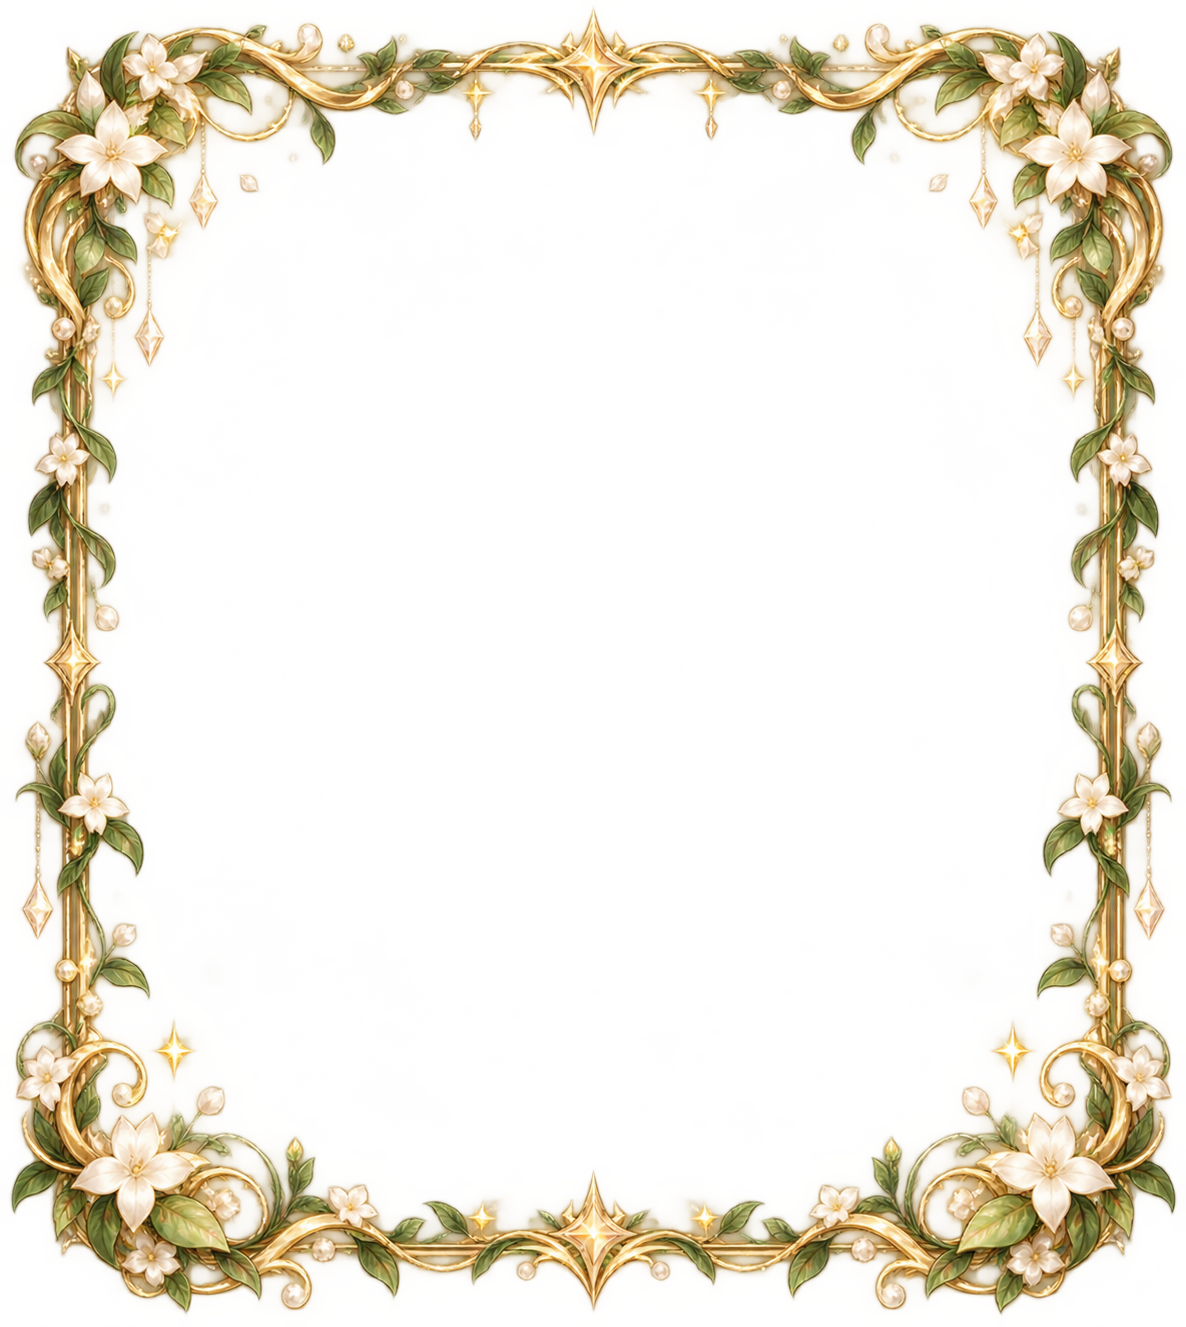
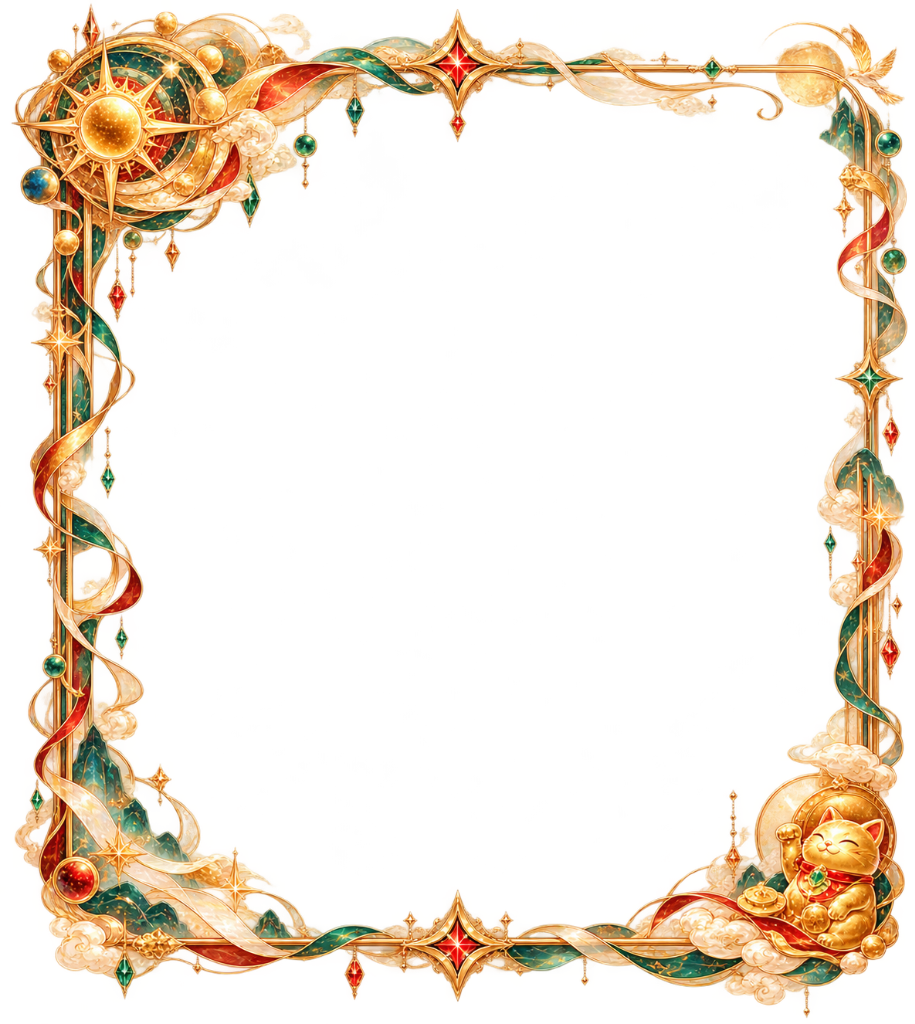
feat(namecard): add gold frame, free basic frames, frame thumbnails, and calibrate stars frame

diff --git a/styles.css b/styles.css
@@ -11388,52 +11388,190 @@ dialog.modal.namecard-modal {
 }
 
 .namecard-frame-layer[data-frame] { opacity: 1; }
-.namecard-frame-layer[data-frame="default"] { opacity: 0; }
+.namecard-frame-layer[data-frame="default"],
+.namecard-frame-layer[data-frame="none"],
+.namecard-frame-layer[data-frame=""] {
+  opacity: 0;
+  display: none;
+}
 
-/* Khung Khu Rừng Tri Thức (Leaves):
-   Kích thước ảnh gốc 915x1024, ranh giới thanh vàng cốt lõi: 823px x 902px.
-   Khi đưa vào stage 680x760, scale khung = (680/823)*915 = 756px, cao = (760/902)*1024 = 863px.
-   Ranh giới 40-60 chạm chuẩn 100% mép viền ngoài namecard. */
+/* 5 Khung nghệ thuật cao cấp */
 .namecard-frame-layer[data-frame="leaves"] {
-  background-image: url("frames/v2/leaves.png?v=4");
+  background-image: url("frames/v2/leaves.png?v=5");
   inset: -42px -38px -61px -38px;
   background-size: 100% 100%;
 }
 .namecard-frame-layer[data-frame="sakura"] {
-  background-image: url("frames/v2/sakura.png?v=4");
+  background-image: url("frames/v2/sakura.png?v=5");
   inset: -46px -42px -64px -42px;
   background-size: 100% 100%;
 }
 .namecard-frame-layer[data-frame="ice"] {
-  background-image: url("frames/v2/ice.png?v=4");
+  background-image: url("frames/v2/ice.png?v=5");
   inset: -54px -52px -58px -66px;
   background-size: 100% 100%;
 }
 .namecard-frame-layer[data-frame="stars"] {
-  background-image: url("frames/v2/stars.png?v=4");
-  inset: -66px -62px -70px -66px;
+  background-image: url("frames/v2/stars.png?v=5");
+  inset: -54px -50px -58px -66px;
   background-size: 100% 100%;
 }
 .namecard-frame-layer[data-frame="gold"] {
-  background-image: url("frames/v2/gold.png?v=4");
-  inset: -45px -42px -65px -42px;
+  background-image: url("frames/v2/gold.png?v=5");
+  inset: -48px -30px -52px -44px;
   background-size: 100% 100%;
 }
 
+/* Khung cơ bản miễn phí (độ dày 4px bo góc chuẩn theo namecard) */
+.namecard-frame-layer[data-frame^="basic_"] {
+  inset: 0px;
+  border-radius: 24px;
+  background: none;
+  pointer-events: none;
+  z-index: 10;
+}
+.namecard-frame-layer[data-frame="basic_ocean"] {
+  border: 4px solid transparent;
+  background: linear-gradient(135deg, #1e3a8a 0%, #3b82f6 50%, #93c5fd 100%) border-box;
+  -webkit-mask: linear-gradient(#fff 0 0) padding-box, linear-gradient(#fff 0 0);
+  -webkit-mask-composite: xor;
+  mask-composite: exclude;
+  box-shadow: 0 0 10px rgba(59, 130, 246, 0.25);
+}
+.namecard-frame-layer[data-frame="basic_emerald"] {
+  border: 4px solid transparent;
+  background: linear-gradient(135deg, #064e3b 0%, #059669 50%, #6ee7b7 100%) border-box;
+  -webkit-mask: linear-gradient(#fff 0 0) padding-box, linear-gradient(#fff 0 0);
+  -webkit-mask-composite: xor;
+  mask-composite: exclude;
+  box-shadow: 0 0 10px rgba(16, 185, 129, 0.25);
+}
+.namecard-frame-layer[data-frame="basic_sunset"] {
+  border: 4px solid transparent;
+  background: linear-gradient(135deg, #4c0519 0%, #db2777 50%, #fcd34d 100%) border-box;
+  -webkit-mask: linear-gradient(#fff 0 0) padding-box, linear-gradient(#fff 0 0);
+  -webkit-mask-composite: xor;
+  mask-composite: exclude;
+  box-shadow: 0 0 10px rgba(219, 39, 119, 0.25);
+}
+.namecard-frame-layer[data-frame="basic_aurora"] {
+  border: 4px solid transparent;
+  background: linear-gradient(135deg, #0f172a 0%, #1e1b4b 50%, #4338ca 100%) border-box;
+  -webkit-mask: linear-gradient(#fff 0 0) padding-box, linear-gradient(#fff 0 0);
+  -webkit-mask-composite: xor;
+  mask-composite: exclude;
+  box-shadow: 0 0 10px rgba(67, 56, 202, 0.25);
+}
+.namecard-frame-layer[data-frame="basic_royal"] {
+  border: 4px solid transparent;
+  background: linear-gradient(135deg, #3b0764 0%, #7c3aed 50%, #c084fc 100%) border-box;
+  -webkit-mask: linear-gradient(#fff 0 0) padding-box, linear-gradient(#fff 0 0);
+  -webkit-mask-composite: xor;
+  mask-composite: exclude;
+  box-shadow: 0 0 10px rgba(124, 58, 237, 0.25);
+}
+.namecard-frame-layer[data-frame="basic_midnight"] {
+  border: 4px solid #0f172a;
+}
+.namecard-frame-layer[data-frame="basic_slate"] {
+  border: 4px solid #334155;
+}
+.namecard-frame-layer[data-frame="basic_deep_green"] {
+  border: 4px solid #064e3b;
+}
+.namecard-frame-layer[data-frame="basic_pure_black"] {
+  border: 4px solid #18181b;
+}
 
+
+/* Thumbnails xem trước trong bộ chọn frame */
 .frame-choice-preview {
   width: 100%;
-  height: 44px;
-  margin-bottom: 5px;
-  border-radius: 7px;
-  background: linear-gradient(135deg, #bdd6ff 0%, #fff 48%, #d9e8ff 100%) center / 100% 100% no-repeat;
+  height: 60px;
+  margin-bottom: 6px;
+  border-radius: 8px;
+  background-position: center;
+  background-repeat: no-repeat;
+  background-size: contain;
+  background-color: transparent;
+  position: relative;
+  display: flex;
+  align-items: center;
+  justify-content: center;
 }
-.frame-choice-preview[data-frame-preview="default"] { background-image: url("frames/v2/default.png?v=4"); }
-.frame-choice-preview[data-frame-preview="leaves"] { background-image: url("frames/v2/leaves.png?v=4"); }
-.frame-choice-preview[data-frame-preview="stars"] { background-image: url("frames/v2/stars.png?v=4"); }
-.frame-choice-preview[data-frame-preview="sakura"] { background-image: url("frames/v2/sakura.png?v=4"); }
-.frame-choice-preview[data-frame-preview="ice"] { background-image: url("frames/v2/ice.png?v=4"); }
-.frame-choice-preview[data-frame-preview="gold"] { background-image: url("frames/v2/gold.png?v=4"); }
+.frame-choice-preview[data-frame-preview="none"],
+.frame-choice-preview[data-frame-preview="default"] {
+  border: 1.5px dashed #cbd5e1;
+  background: #f8fafc;
+}
+.frame-choice-preview[data-frame-preview="none"]::after,
+.frame-choice-preview[data-frame-preview="default"]::after {
+  content: "✕ Không khung";
+  font-size: 10px;
+  font-weight: 600;
+  color: #94a3b8;
+}
+
+/* 5 ảnh thumb cao cấp chính thức */
+.frame-choice-preview[data-frame-preview="leaves"] { background-image: url("frames/v2/thumbs/leaves.png?v=5"); }
+.frame-choice-preview[data-frame-preview="stars"] { background-image: url("frames/v2/thumbs/stars.png?v=5"); }
+.frame-choice-preview[data-frame-preview="gold"] { background-image: url("frames/v2/thumbs/gold.png?v=5"); }
+.frame-choice-preview[data-frame-preview="sakura"] { background-image: url("frames/v2/thumbs/sakura.png?v=5"); }
+.frame-choice-preview[data-frame-preview="ice"] { background-image: url("frames/v2/thumbs/ice.png?v=5"); }
+
+/* Khung cơ bản miễn phí swatch */
+.frame-choice-preview[data-frame-preview="basic_ocean"] {
+  border: 3.5px solid transparent;
+  background: linear-gradient(135deg, #1e3a8a 0%, #3b82f6 50%, #93c5fd 100%) border-box;
+  -webkit-mask: linear-gradient(#fff 0 0) padding-box, linear-gradient(#fff 0 0);
+  -webkit-mask-composite: xor;
+  mask-composite: exclude;
+}
+.frame-choice-preview[data-frame-preview="basic_emerald"] {
+  border: 3.5px solid transparent;
+  background: linear-gradient(135deg, #064e3b 0%, #059669 50%, #6ee7b7 100%) border-box;
+  -webkit-mask: linear-gradient(#fff 0 0) padding-box, linear-gradient(#fff 0 0);
+  -webkit-mask-composite: xor;
+  mask-composite: exclude;
+}
+.frame-choice-preview[data-frame-preview="basic_sunset"] {
+  border: 3.5px solid transparent;
+  background: linear-gradient(135deg, #4c0519 0%, #db2777 50%, #fcd34d 100%) border-box;
+  -webkit-mask: linear-gradient(#fff 0 0) padding-box, linear-gradient(#fff 0 0);
+  -webkit-mask-composite: xor;
+  mask-composite: exclude;
+}
+.frame-choice-preview[data-frame-preview="basic_aurora"] {
+  border: 3.5px solid transparent;
+  background: linear-gradient(135deg, #0f172a 0%, #1e1b4b 50%, #4338ca 100%) border-box;
+  -webkit-mask: linear-gradient(#fff 0 0) padding-box, linear-gradient(#fff 0 0);
+  -webkit-mask-composite: xor;
+  mask-composite: exclude;
+}
+.frame-choice-preview[data-frame-preview="basic_royal"] {
+  border: 3.5px solid transparent;
+  background: linear-gradient(135deg, #3b0764 0%, #7c3aed 50%, #c084fc 100%) border-box;
+  -webkit-mask: linear-gradient(#fff 0 0) padding-box, linear-gradient(#fff 0 0);
+  -webkit-mask-composite: xor;
+  mask-composite: exclude;
+}
+.frame-choice-preview[data-frame-preview="basic_midnight"] {
+  border: 3.5px solid #0f172a;
+  background: #f8fafc;
+}
+.frame-choice-preview[data-frame-preview="basic_slate"] {
+  border: 3.5px solid #334155;
+  background: #f8fafc;
+}
+.frame-choice-preview[data-frame-preview="basic_deep_green"] {
+  border: 3.5px solid #064e3b;
+  background: #f8fafc;
+}
+.frame-choice-preview[data-frame-preview="basic_pure_black"] {
+  border: 3.5px solid #18181b;
+  background: #f8fafc;
+}
+
 .choice-unlock-badge {
   margin-top: 3px;
   color: #39714a;
@@ -11441,13 +11579,7 @@ dialog.modal.namecard-modal {
   font-weight: 700;
 }
 
-/* Earlier experimental rules used a CSS border as a stand-in frame.  Keep the
-   content canvas completely unchanged; the asset layer above is now the frame. */
-.namecard-card[data-frame="leaves"],
-.namecard-card[data-frame="stars"],
-.namecard-card[data-frame="sakura"],
-.namecard-card[data-frame="ice"],
-.namecard-card[data-frame="gold"] {
+.namecard-card[data-frame] {
   border: 0;
   box-shadow: none;
 }
@@ -12083,11 +12215,7 @@ dialog.modal.full-cover-viewer-modal {
 
 /* Must follow the retired prototype frame rules above: frames never consume
    content space or alter card geometry. */
-.namecard-card[data-frame="leaves"],
-.namecard-card[data-frame="stars"],
-.namecard-card[data-frame="sakura"],
-.namecard-card[data-frame="ice"],
-.namecard-card[data-frame="gold"] {
+.namecard-card[data-frame] {
   border: 0;
   box-shadow: none;
 }

diff --git a/app.js b/app.js
@@ -3726,10 +3726,24 @@ const AVATAR_OPTIONS = [
 ];
 
 const FRAME_OPTIONS = [
-  { id: "default", name: "Mặc định", minDays: 0 },
-  { id: "leaves", name: "Khu rừng tri thức", minDays: 3 },
-  { id: "sakura", name: "Mùa anh đào nở", minDays: 7 },
-  { id: "ice", name: "Vương quốc mùa đông", minDays: 14 },
+  // Mặc định: không dùng khung (không có khung)
+  { id: "none", name: "Không khung", minDays: 0 },
+
+  // Khung cơ bản miễn phí (độ dày 4-5px) tương ứng danh sách ảnh bìa
+  { id: "basic_ocean", name: "Xanh đại dương", minDays: 0 },
+  { id: "basic_emerald", name: "Ngọc lục bảo", minDays: 0 },
+  { id: "basic_sunset", name: "Hoàng hôn tím", minDays: 0 },
+  { id: "basic_aurora", name: "Cực quang", minDays: 0 },
+  { id: "basic_royal", name: "Hoàng gia", minDays: 0 },
+  { id: "basic_midnight", name: "Đêm huyền bí", minDays: 0 },
+  { id: "basic_slate", name: "Xám đá Slate", minDays: 0 },
+  { id: "basic_deep_green", name: "Xanh rừng sâu", minDays: 0 },
+  { id: "basic_pure_black", name: "Đen tuyền", minDays: 0 },
+
+  // 5 Khung nghệ thuật độc quyền theo chuỗi ngày (sử dụng 5 thumb mới)
+  { id: "leaves", name: "Vườn thanh xuân", minDays: 3 },
+  { id: "sakura", name: "Đại lộ hoa anh đào", minDays: 7 },
+  { id: "ice", name: "Vương quốc băng giá", minDays: 14 },
   { id: "stars", name: "Tinh tú sao trời", minDays: 30 },
   { id: "gold", name: "Kỷ nguyên hoàng kim", minDays: 50 },
 ];
@@ -3840,9 +3854,9 @@ window.openNamecard = async function(userId) {
     if ($("#namecardEditNameBtn")) $("#namecardEditNameBtn").style.display = isSelf ? "inline-flex" : "none";
 
     // Frame is a visual overlay; it must never affect the card's measured layout.
-    const activeFrame = FRAME_OPTIONS.some(frame => frame.id === data.user.namecardFrame)
+    const activeFrame = FRAME_OPTIONS.some(frame => frame.id === data.user.namecardFrame && frame.id !== "default")
       ? data.user.namecardFrame
-      : "default";
+      : "none";
     $("#namecardCard").setAttribute("data-frame", activeFrame);
     $("#namecardFrameLayer")?.setAttribute("data-frame", activeFrame);
 
@@ -3975,9 +3989,9 @@ window.openEditNamecardModal = function(section = "all") {
   if ($("#namecardDisplayNameInput")) $("#namecardDisplayNameInput").value = session.displayName || "";
   if ($("#namecardBioInput")) $("#namecardBioInput").value = session.bio || "";
   currentSelectedAvatar = session.initials || session.avatar || "🌱";
-  currentSelectedFrame = FRAME_OPTIONS.some(frame => frame.id === session.namecardFrame)
+  currentSelectedFrame = FRAME_OPTIONS.some(frame => frame.id === session.namecardFrame && frame.id !== "default")
     ? session.namecardFrame
-    : "default";
+    : "none";
   currentSelectedCover = session.coverImage || "default";
 
   // Render Pickers
@@ -4078,7 +4092,7 @@ function renderFramePicker() {
   const isPrivileged = session?.role === "admin" || session?.role === "ta";
   const frameNotice = $("#namecardFrameNotice");
   if (frameNotice) {
-    const nextFrame = FRAME_OPTIONS.find(frame => frame.minDays > longestStreak);
+    const nextFrame = FRAME_OPTIONS.filter(frame => frame.minDays > 0).find(frame => frame.minDays > longestStreak);
     frameNotice.textContent = nextFrame && !isPrivileged
       ? `Mở khóa khung ${nextFrame.name}: chuỗi ${nextFrame.minDays}+ ngày`
       : "Tất cả khung hiện có đã mở khóa";

diff --git a/server.js b/server.js
@@ -835,7 +835,7 @@ function publicUser(user, streakInfo = null) {
     className: user.class_name || "",
     bio: user.bio || "",
     coverImage: user.cover_image || "default",
-    namecardFrame: user.namecard_frame || "default",
+    namecardFrame: (user.namecard_frame && user.namecard_frame !== "default") ? user.namecard_frame : "none",
     namecardTheme: user.namecard_theme || "default",
     streak: info.streak || 0,
     maxStreak: user.id ? getUserMaxStreak(user.id) : 0,
@@ -2735,7 +2735,7 @@ async function api(request, response, url) {
         role: targetUser.role,
         bio: targetUser.bio || "Hỏi, trao đổi, cùng tiến bộ 🌱\nTìm hiểu sâu hơn, mỗi ngày một chút.",
         coverImage: targetUser.cover_image || "default",
-        namecardFrame: targetUser.namecard_frame || "default",
+        namecardFrame: (targetUser.namecard_frame && targetUser.namecard_frame !== "default") ? targetUser.namecard_frame : "none",
         namecardTheme: targetUser.namecard_theme || "default",
         isSelf,
         canUploadCustomCover
@@ -2845,9 +2845,13 @@ async function api(request, response, url) {
     const newDisplayName = (typeof displayName === "string" && displayName.trim()) ? displayName.trim().slice(0, 80) : currentUser.display_name;
     const newBio = typeof bio === "string" ? bio.trim().slice(0, 200) : currentUser.bio;
     const allowedFrames = new Map([
-      ["default", 0], ["leaves", 3], ["sakura", 7], ["ice", 14], ["stars", 30], ["gold", 50],
+      ["none", 0], ["default", 0],
+      ["basic_ocean", 0], ["basic_emerald", 0], ["basic_sunset", 0],
+      ["basic_aurora", 0], ["basic_royal", 0], ["basic_midnight", 0],
+      ["basic_slate", 0], ["basic_deep_green", 0], ["basic_pure_black", 0],
+      ["leaves", 3], ["sakura", 7], ["ice", 14], ["stars", 30], ["gold", 50],
     ]);
-    const requestedFrame = typeof namecardFrame === "string" ? namecardFrame.trim() : (currentUser.namecard_frame || "default");
+    const requestedFrame = typeof namecardFrame === "string" ? namecardFrame.trim() : (currentUser.namecard_frame || "none");
     const frameRequirement = allowedFrames.get(requestedFrame);
     if (frameRequirement === undefined) return error(response, 400, "Khung Namecard không hợp lệ.");
     const canUseRequestedFrame = isPrivileged || unlockedStreak >= frameRequirement;

diff --git a/index.html b/index.html
@@ -16,7 +16,7 @@
     <script src="https://cdn.jsdelivr.net/npm/quill@2.0.2/dist/quill.js"></script>
     <script src="https://cdnjs.cloudflare.com/ajax/libs/dompurify/3.0.6/purify.min.js"></script>
     <script src="https://cdn.jsdelivr.net/npm/xlsx@0.18.5/dist/xlsx.full.min.js"></script>
-    <link rel="stylesheet" href="styles.css?v=65" />
+    <link rel="stylesheet" href="styles.css?v=66" />
   </head>
   <body>
     <dialog
